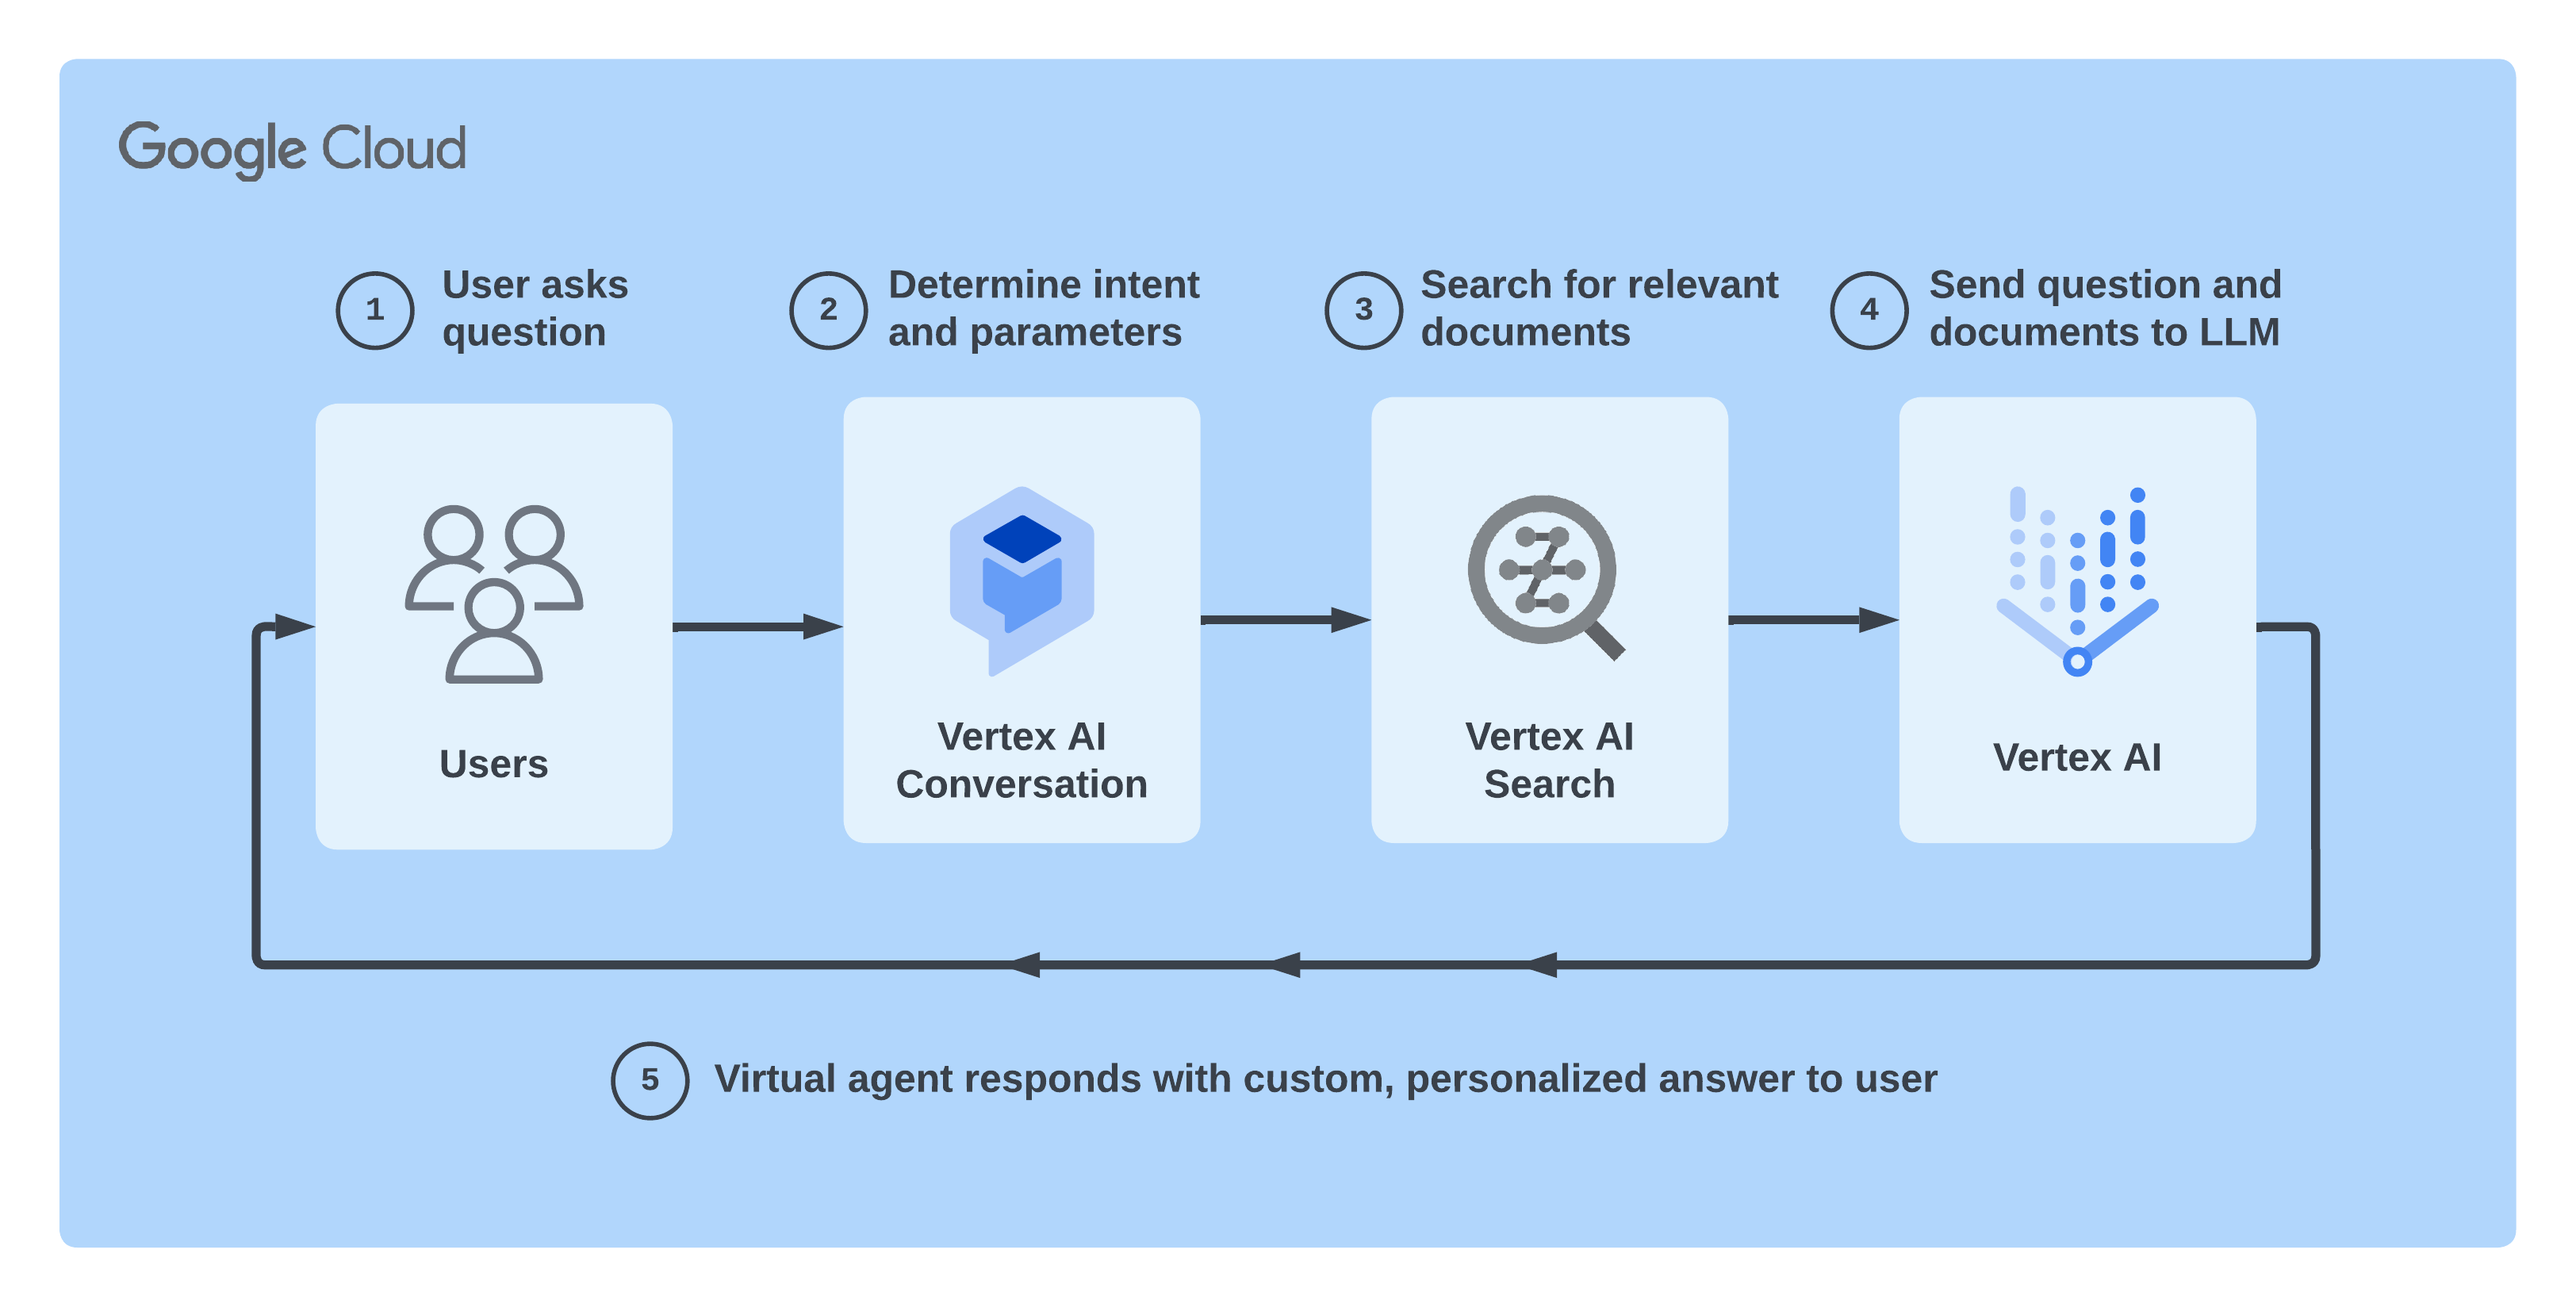
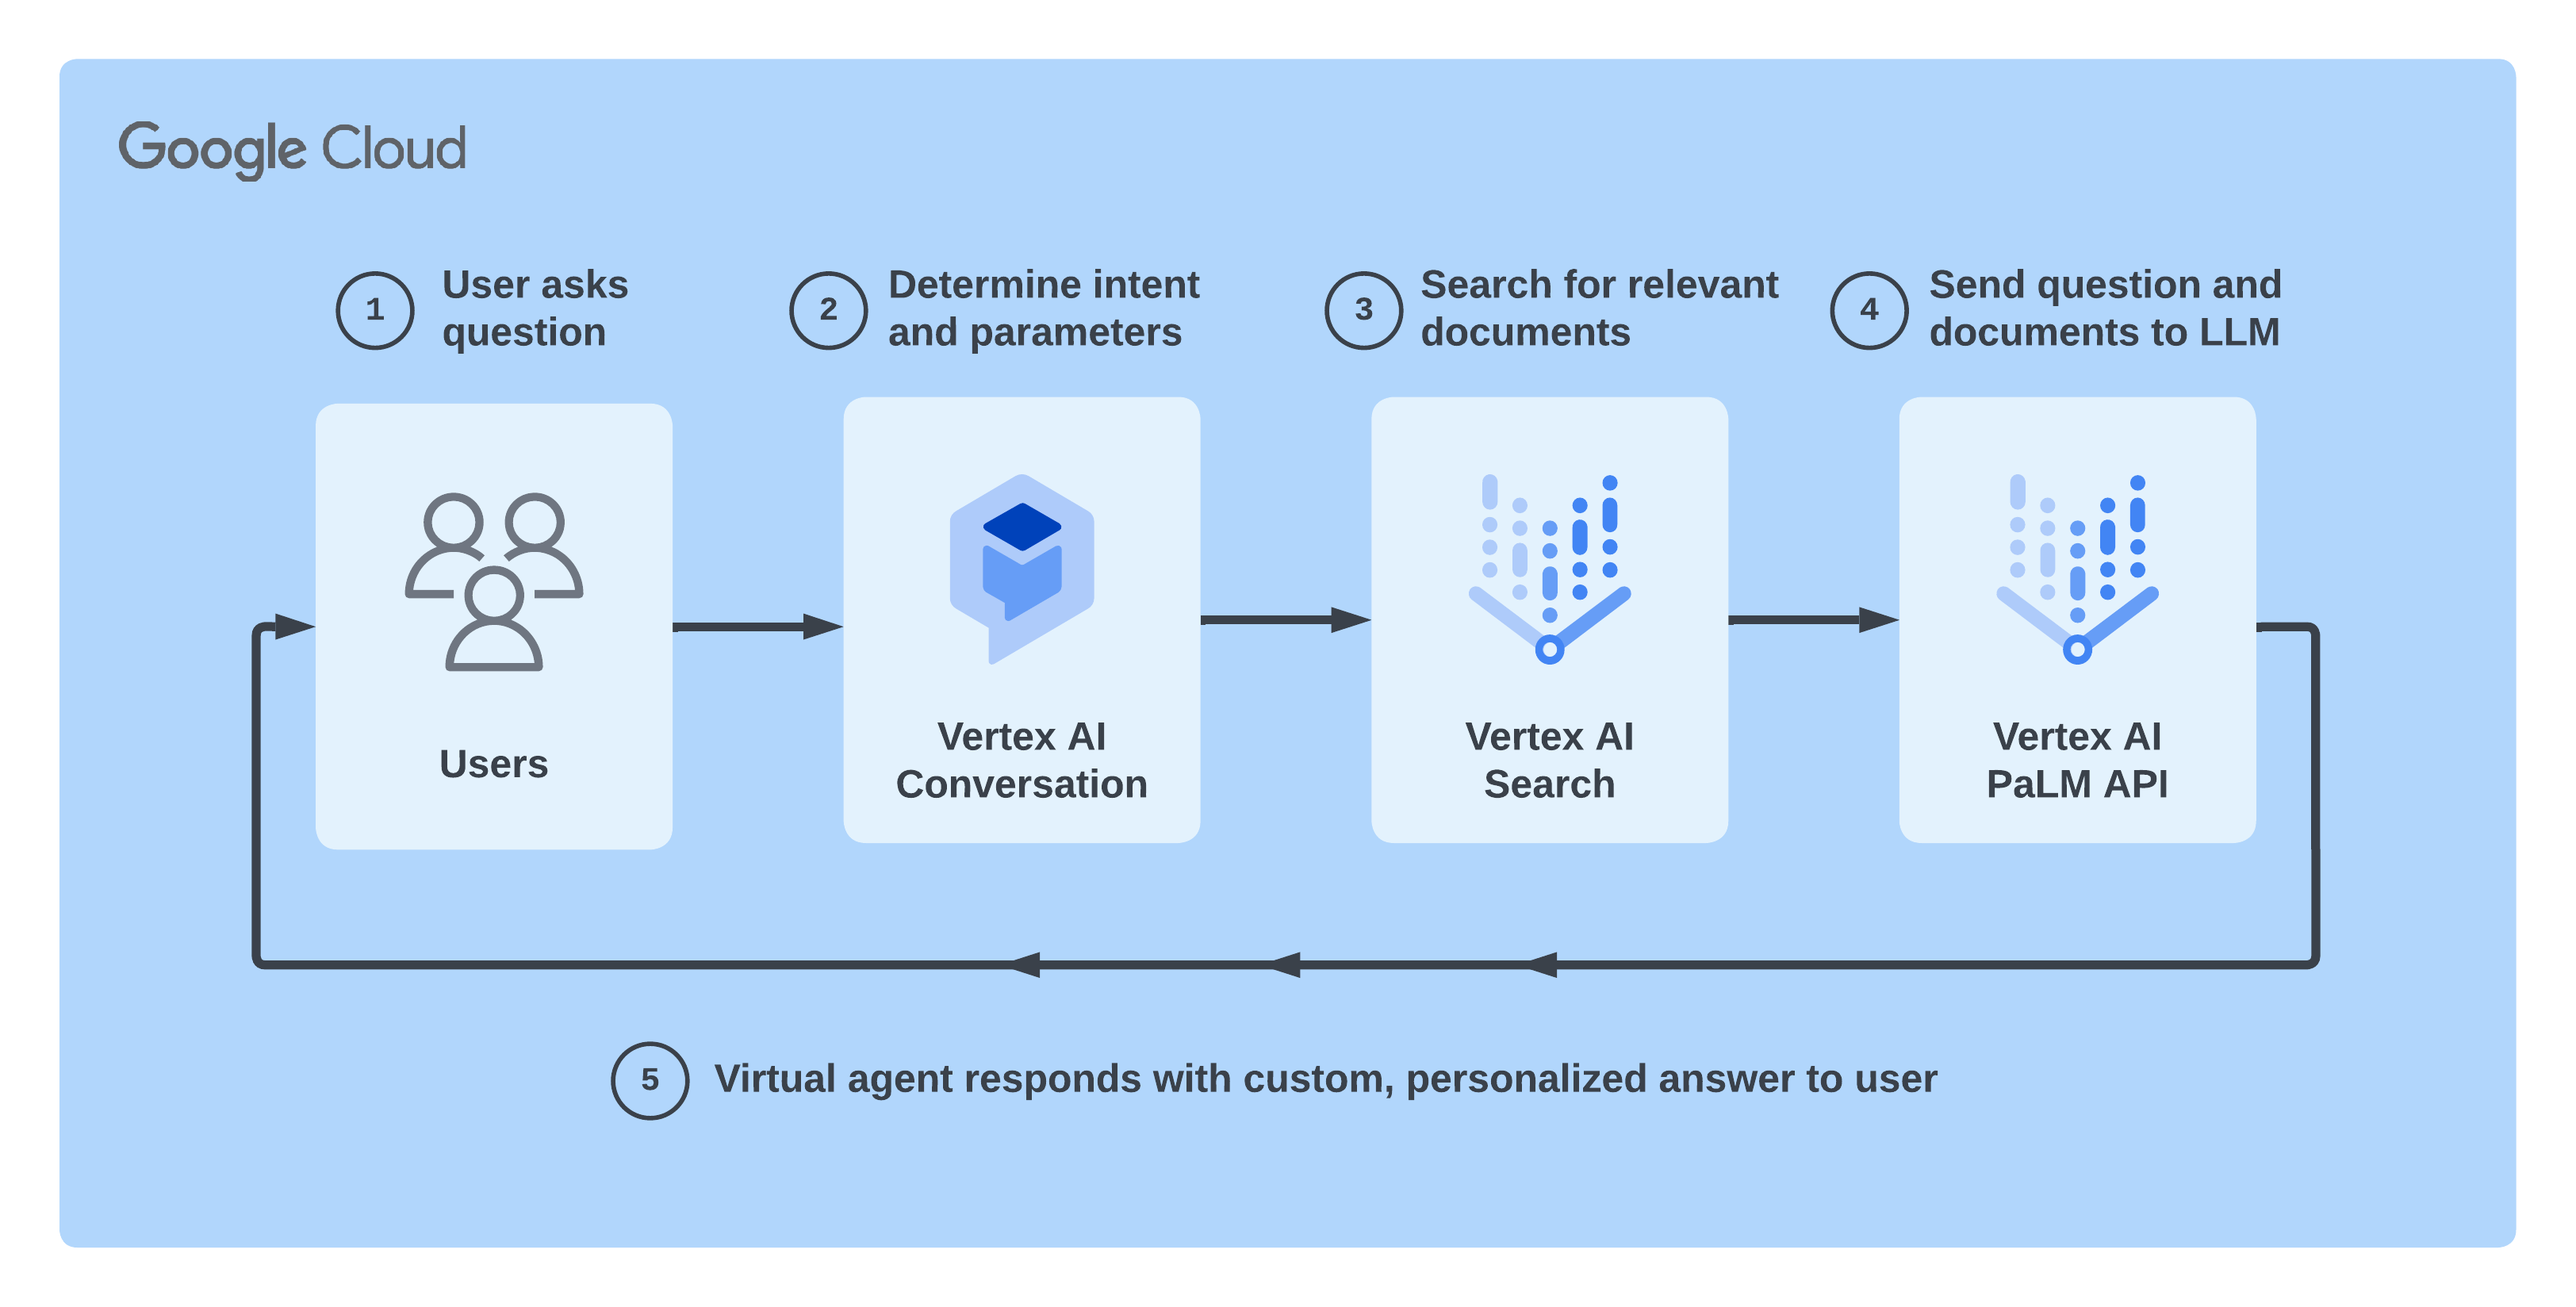
Fix Dialogflow Messenger client in sample chat app (#236)
* Fix JS link for Dialogflow Messenger client

* Generalize project ID

* Update logo

* Update diagram

* Update favicon

diff --git a/conversation/chat-app/src/routes/+page.svelte b/conversation/chat-app/src/routes/+page.svelte
@@ -62,7 +62,7 @@
 
 <Navbar let:hidden let:toggle class="bg-[#B1D6FC]">
   <NavBrand href="/">
-    <img src="vertex-ai-conversation-logo.png" class="mr-3 h-6 sm:h-9" alt="Vertex AI Conversation" />
+    <img src="vertex-ai-logo.png" class="mr-3 h-6 sm:h-9" alt="Vertex AI Conversation" />
     <span class="self-center whitespace-nowrap text-xl font-semibold text-black dark:text-white"
       >Vertex AI Conversation Demo</span>
   </NavBrand>
@@ -84,7 +84,7 @@
       <div class="m-6 w-3/5">
         <Heading tag="h5" class="my-2">What is a Data Store Agent?</Heading>
         <p class="font-normal text-gray-700 dark:text-gray-400">
-            A generative + conversational AI feature within <A
+          A generative + conversational AI feature within <A
             href="https://cloud.google.com/generative-ai-app-builder"
             class="font-medium hover:underline">Vertex AI Conversation</A> and
           <A href="https://cloud.google.com/dialogflow" class="font-medium hover:underline"
@@ -92,11 +92,10 @@
           >.
         </p>
 
-        <Heading tag="h5" class="my-2 mt-6">How it works</Heading> You provide a
-        website, unstructured data, or structured data, then Data Store Agent
-        indexes your content and creates a virtual agent that is powered by
-        large language models. Users can then chat, ask questions, and have a
-        conversation about the content.
+        <Heading tag="h5" class="my-2 mt-6">How it works</Heading> You provide a website, unstructured
+        data, or structured data, then Data Store Agent indexes your content and creates a virtual agent
+        that is powered by large language models. Users can then chat, ask questions, and have a conversation
+        about the content.
 
         <Heading tag="h5" class="my-2 mt-6">Try it yourself!</Heading>
         Ask the chatbot on the right about products in the Google Store, such as the Pixel Phone, Pixel
@@ -119,8 +118,9 @@
       </div>
       <div class="m-12 w-2/5">
         <script
-          src="https://www.gstatic.com/dialogflow-console/fast/messenger-cx/prod/df-messenger.min.js?v=1"></script>
+          src="https://www.gstatic.com/dialogflow-console/fast/df-messenger/prod/v1/df-messenger.js"></script>
         <df-messenger
+          project-id="your-project-id"
           agent-id="b42e8b15-64ef-45be-bdaf-cbf78541873b"
           language-code="en"
           storage-option="none"
